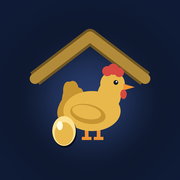
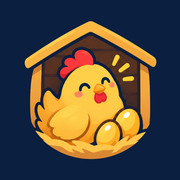
アイコンを ChatGPT で作った絵に差し替える

diff --git a/tests/tests.js b/tests/tests.js
@@ -1,19 +1,19 @@
 // 計算ロジックのテスト。Python 版 tests/test_models.py・test_repository.py の移植。
 
-import { describe, it, expect } from './runner.js?v=202609131101';
+import { describe, it, expect } from './runner.js?v=202609131131';
 import {
   aggregate, computePosition, dividendMonths, evaluate, firstBuy, LedgerError, previewSplit,
-} from '../js/lib/models.js?v=202609131101';
+} from '../js/lib/models.js?v=202609131131';
 import {
   classifyBySector, evaluateDefensive, evaluateSectors, evaluateStockDividends,
   headroom, planAveraging,
-} from '../js/lib/rules.js?v=202609131101';
-import { Store } from '../js/lib/store.js?v=202609131101';
-import { fromBase64, toBase64 } from '../js/lib/github.js?v=202609131101';
-import { delegate } from '../js/lib/dom.js?v=202609131101';
-import { judgeMetric, scoreVerdicts, trendPct } from '../js/lib/metrics.js?v=202609131101';
-import { date as formatDate, dateTime as formatDateTime, normalizeMonth } from '../js/lib/format.js?v=202609131101';
-import { dashboard, getStockView, listStockViews } from '../js/lib/portfolio.js?v=202609131101';
+} from '../js/lib/rules.js?v=202609131131';
+import { Store } from '../js/lib/store.js?v=202609131131';
+import { fromBase64, toBase64 } from '../js/lib/github.js?v=202609131131';
+import { delegate } from '../js/lib/dom.js?v=202609131131';
+import { judgeMetric, scoreVerdicts, trendPct } from '../js/lib/metrics.js?v=202609131131';
+import { date as formatDate, dateTime as formatDateTime, normalizeMonth } from '../js/lib/format.js?v=202609131131';
+import { dashboard, getStockView, listStockViews } from '../js/lib/portfolio.js?v=202609131131';
 
 const tx = (id, type, date, extra = {}) => ({ id, type, trade_date: date, ...extra });
 

diff --git a/index.html b/index.html
@@ -1,7 +1,7 @@
 <!doctype html>
 <html lang="ja">
 <head>
-  <meta name="app-version" content="202609131101">
+  <meta name="app-version" content="202609131131">
   <meta charset="utf-8">
   <meta name="viewport" content="width=device-width, initial-scale=1, viewport-fit=cover">
   <meta name="color-scheme" content="dark light">
@@ -18,7 +18,7 @@
   <link rel="preconnect" href="https://fonts.googleapis.com">
   <link rel="preconnect" href="https://fonts.gstatic.com" crossorigin>
   <link href="https://fonts.googleapis.com/css2?family=Zen+Kaku+Gothic+New:wght@400;500;700;900&family=JetBrains+Mono:wght@400;500;700&display=swap" rel="stylesheet">
-  <link rel="stylesheet" href="./css/app.css?v=202609131101">
+  <link rel="stylesheet" href="./css/app.css?v=202609131131">
   <script>
     // 画面の描画前にテーマを確定させ、読み込み時のちらつきを防ぐ
     try {
@@ -34,7 +34,7 @@
     <header class="topbar">
       <div class="topbar-brand">
         <h1 class="brand-title">
-          <img class="brand-icon" src="./icons/favicon-64.png" alt="" width="30" height="30">
+          <img class="brand-icon" src="./icons/favicon-128.png" alt="" width="40" height="40">
           金のニワトリ小屋
         </h1>
         <p class="brand-sub" id="brandSub">読み込み中…</p>
@@ -62,6 +62,6 @@
   <div class="modal-root" id="modalRoot" hidden></div>
   <div class="toasts" id="toasts"></div>
 
-  <script type="module" src="./js/app.js?v=202609131101"></script>
+  <script type="module" src="./js/app.js?v=202609131131"></script>
 </body>
 </html>

diff --git a/js/app.js b/js/app.js
@@ -1,15 +1,15 @@
 // 画面遷移(ハッシュルーティング)と初期化。
 
-import { api, onStatusChange } from './lib/api.js?v=202609131101';
-import { init as initData } from './lib/api.js?v=202609131101';
-import { esc, qs, qsa, toast } from './lib/dom.js?v=202609131101';
-import { ensureLatest } from './lib/freshness.js?v=202609131101';
-import * as theme from './lib/theme.js?v=202609131101';
-import * as dashboard from './views/dashboard.js?v=202609131101';
-import * as holdings from './views/holdings.js?v=202609131101';
-import * as ledger from './views/ledger.js?v=202609131101';
-import * as settings from './views/settings.js?v=202609131101';
-import * as stockDetail from './views/stockDetail.js?v=202609131101';
+import { api, onStatusChange } from './lib/api.js?v=202609131131';
+import { init as initData } from './lib/api.js?v=202609131131';
+import { esc, qs, qsa, toast } from './lib/dom.js?v=202609131131';
+import { ensureLatest } from './lib/freshness.js?v=202609131131';
+import * as theme from './lib/theme.js?v=202609131131';
+import * as dashboard from './views/dashboard.js?v=202609131131';
+import * as holdings from './views/holdings.js?v=202609131131';
+import * as ledger from './views/ledger.js?v=202609131131';
+import * as settings from './views/settings.js?v=202609131131';
+import * as stockDetail from './views/stockDetail.js?v=202609131131';
 
 const ROUTES = [
   { pattern: /^dashboard$/, tab: 'dashboard', view: dashboard },

diff --git a/js/views/stockDetail.js b/js/views/stockDetail.js
@@ -1,11 +1,11 @@
 // 銘柄詳細: ロットごとの取引台帳と、IRBANK 由来の配当・営業利益の推移。
 
-import { api } from '../lib/api.js?v=202609131101';
-import * as charts from '../lib/charts.js?v=202609131101';
-import { delegate, esc, toast } from '../lib/dom.js?v=202609131101';
-import { confirmDelete, positionForm, stockForm, transactionForm } from '../lib/forms.js?v=202609131101';
-import { dividendJudgeRows, judgeMetric, STATUS_LABEL } from '../lib/metrics.js?v=202609131101';
-import { classification, date, dateTime, fullDate, lotName, num, pct, shares, signClass, TX_LABEL, yen, yenPrecise } from '../lib/format.js?v=202609131101';
+import { api } from '../lib/api.js?v=202609131131';
+import * as charts from '../lib/charts.js?v=202609131131';
+import { delegate, esc, toast } from '../lib/dom.js?v=202609131131';
+import { confirmDelete, positionForm, stockForm, transactionForm } from '../lib/forms.js?v=202609131131';
+import { dividendJudgeRows, judgeMetric, STATUS_LABEL } from '../lib/metrics.js?v=202609131131';
+import { classification, date, dateTime, fullDate, lotName, num, pct, shares, signClass, TX_LABEL, yen, yenPrecise } from '../lib/format.js?v=202609131131';
 
 const MONTHS = ['1月', '2月', '3月', '4月', '5月', '6月', '7月', '8月', '9月', '10月', '11月', '12月'];
 

diff --git a/js/views/settings.js b/js/views/settings.js
@@ -1,11 +1,11 @@
 // データ管理: 保存先(GitHub)の設定、書き出し、読み込み。
 
-import { api } from '../lib/api.js?v=202609131101';
-import { confirmDialog, delegate, esc, modal, qs, toast } from '../lib/dom.js?v=202609131101';
-import { dateTime } from '../lib/format.js?v=202609131101';
-import { download } from '../lib/portability.js?v=202609131101';
-import { GitHubStore } from '../lib/github.js?v=202609131101';
-import { getConfig, setConfig } from '../lib/persist.js?v=202609131101';
+import { api } from '../lib/api.js?v=202609131131';
+import { confirmDialog, delegate, esc, modal, qs, toast } from '../lib/dom.js?v=202609131131';
+import { dateTime } from '../lib/format.js?v=202609131131';
+import { download } from '../lib/portability.js?v=202609131131';
+import { GitHubStore } from '../lib/github.js?v=202609131131';
+import { getConfig, setConfig } from '../lib/persist.js?v=202609131131';
 
 /** ファイル選択ダイアログを開いてテキストとして読む。 */
 function pickFile(accept) {

diff --git a/js/lib/forms.js b/js/lib/forms.js
@@ -1,10 +1,10 @@
 // 銘柄・ポジション・取引の入力フォーム(モーダル)をまとめたモジュール。
 
-import { api } from './api.js?v=202609131101';
-import { confirmDialog, esc, modal, qs, toast } from './dom.js?v=202609131101';
-import { normalizeMonth, shares as fmtShares, thisMonth, TX_LABEL, yen, yenPrecise } from './format.js?v=202609131101';
-import { previewSplit } from './models.js?v=202609131101';
-import { classifyBySector } from './rules.js?v=202609131101';
+import { api } from './api.js?v=202609131131';
+import { confirmDialog, esc, modal, qs, toast } from './dom.js?v=202609131131';
+import { normalizeMonth, shares as fmtShares, thisMonth, TX_LABEL, yen, yenPrecise } from './format.js?v=202609131131';
+import { previewSplit } from './models.js?v=202609131131';
+import { classifyBySector } from './rules.js?v=202609131131';
 
 const CLASSIFICATIONS = [
   ['AUTO', 'おまかせ — セクターから決める'],

diff --git a/js/views/holdings.js b/js/views/holdings.js
@@ -1,9 +1,9 @@
 // 銘柄一覧: 保有中の銘柄と購入候補を、並べ替え・絞り込みしながら見る。
 
-import { api } from '../lib/api.js?v=202609131101';
-import { delegate, esc, toast } from '../lib/dom.js?v=202609131101';
-import { stockForm } from '../lib/forms.js?v=202609131101';
-import { classification, pct, shares, signClass, yen } from '../lib/format.js?v=202609131101';
+import { api } from '../lib/api.js?v=202609131131';
+import { delegate, esc, toast } from '../lib/dom.js?v=202609131131';
+import { stockForm } from '../lib/forms.js?v=202609131131';
+import { classification, pct, shares, signClass, yen } from '../lib/format.js?v=202609131131';
 
 const COLUMNS = [
   { key: 'code', label: 'コード', sort: (a, b) => a.code.localeCompare(b.code) },

diff --git a/js/lib/api.js b/js/lib/api.js
@@ -4,10 +4,10 @@
 // 中身をブラウザ内の計算 + GitHub への保存に置き換えている。
 // 書き込みのたびに保存し、失敗したら画面に伝える。
 
-import { Store } from './store.js?v=202609131101';
-import * as portfolioLib from './portfolio.js?v=202609131101';
-import * as portability from './portability.js?v=202609131101';
-import { Persistence, RemoteChanged } from './persist.js?v=202609131101';
+import { Store } from './store.js?v=202609131131';
+import * as portfolioLib from './portfolio.js?v=202609131131';
+import * as portability from './portability.js?v=202609131131';
+import { Persistence, RemoteChanged } from './persist.js?v=202609131131';
 
 const store = new Store();
 const persistence = new Persistence();

diff --git a/js/views/dashboard.js b/js/views/dashboard.js
@@ -1,9 +1,9 @@
 // ダッシュボード: 資産サマリー・分散ルール・構成比・要対応の一覧。
 
-import { api } from '../lib/api.js?v=202609131101';
-import * as charts from '../lib/charts.js?v=202609131101';
-import { delegate, esc, modal, toast } from '../lib/dom.js?v=202609131101';
-import { pct, signClass, yen } from '../lib/format.js?v=202609131101';
+import { api } from '../lib/api.js?v=202609131131';
+import * as charts from '../lib/charts.js?v=202609131131';
+import { delegate, esc, modal, toast } from '../lib/dom.js?v=202609131131';
+import { pct, signClass, yen } from '../lib/format.js?v=202609131131';
 
 function summaryCard(label, value, { cls = '', sub = '' } = {}) {
   return `

diff --git a/js/views/ledger.js b/js/views/ledger.js
@@ -1,9 +1,9 @@
 // 取引台帳: 全銘柄の取引を新しい順に一覧する。
 
-import { api } from '../lib/api.js?v=202609131101';
-import { delegate, esc } from '../lib/dom.js?v=202609131101';
-import { confirmDelete, transactionForm } from '../lib/forms.js?v=202609131101';
-import { date, num, shares, TX_LABEL, yen } from '../lib/format.js?v=202609131101';
+import { api } from '../lib/api.js?v=202609131131';
+import { delegate, esc } from '../lib/dom.js?v=202609131131';
+import { confirmDelete, transactionForm } from '../lib/forms.js?v=202609131131';
+import { date, num, shares, TX_LABEL, yen } from '../lib/format.js?v=202609131131';
 
 const state = { search: '', type: 'ALL' };
 

diff --git a/js/lib/portfolio.js b/js/lib/portfolio.js
@@ -3,12 +3,12 @@
 
 import {
   aggregate, computePosition, dividendMonths, EPSILON, evaluate, firstBuy, sortTransactions,
-} from './models.js?v=202609131101';
+} from './models.js?v=202609131131';
 import {
   evaluateDefensive, evaluateSectors, evaluateStockDividends, planAveraging,
-} from './rules.js?v=202609131101';
-import { lotName } from './format.js?v=202609131101';
-import { scoreStock } from './metrics.js?v=202609131101';
+} from './rules.js?v=202609131131';
+import { lotName } from './format.js?v=202609131131';
+import { scoreStock } from './metrics.js?v=202609131131';
 
 function round(value, digits) {
   const f = 10 ** digits;

diff --git a/js/lib/store.js b/js/lib/store.js
@@ -5,13 +5,13 @@
 
 import {
   computePosition, LedgerError, previewSplit, TX_TYPES, SPLIT, MOVE_IN, MOVE_OUT,
-} from './models.js?v=202609131101';
-import { lotName, normalizeMonth } from './format.js?v=202609131101';
+} from './models.js?v=202609131131';
+import { lotName, normalizeMonth } from './format.js?v=202609131131';
 import {
   classifyBySector,
   DEFAULT_MAX_SECTOR_PCT, DEFAULT_MAX_STOCK_DIVIDEND_PCT, DEFAULT_MIN_DEFENSIVE_PCT,
   DEFAULT_SECOND_BUY_DROP_PCT, DEFAULT_THIRD_BUY_DROP_PCT,
-} from './rules.js?v=202609131101';
+} from './rules.js?v=202609131131';
 
 export const FORMAT = 'khk-portfolio';
 export const VERSION = 2;
